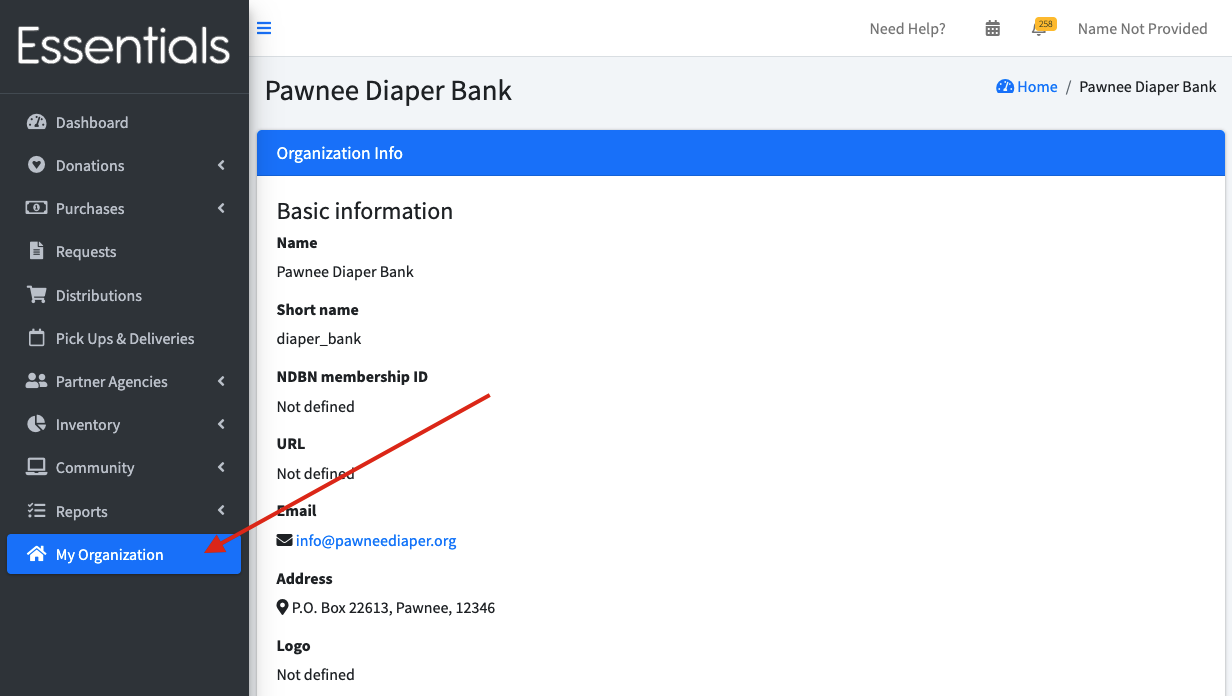
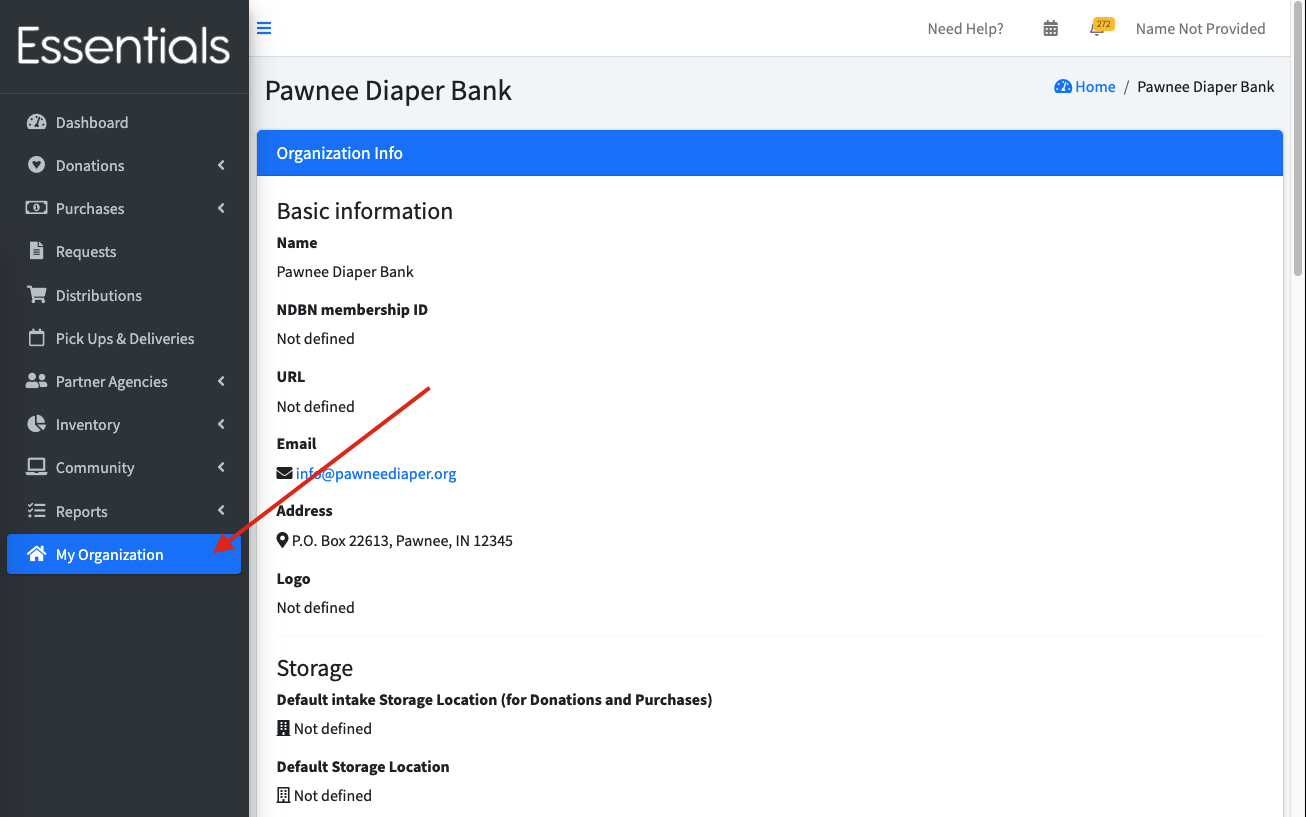
Remove mention of organization short name from user guide

Changed region(s): [[0.0, 0.0, 1.0, 1.0], [0.7094, 0.0302, 0.7711, 0.0603]]

diff --git a/docs/user_guide/bank/getting_started_customization.md b/docs/user_guide/bank/getting_started_customization.md
@@ -28,9 +28,6 @@ Here's all the fields, with a bit about the implications of each one:
 #### Name
 The name of your Essentials Bank.   This appears in the headings on most screens, and will appear on printouts (such as the distribution printout many banks use as a packing slip), and most reports.
 
-#### Short name
-You don't change this -- we assigned it when we set it up -- it's here for reference for support calls if we need it.
-
 #### NDBN membership ID
 This should be filled in already from your Account Request,but if it isn't, you can select it from the list.   That list is updated on an irregular basis,  so if you are an NDBN member, and you aren't on the list,  let us know and we'll get a fresh list uploaded.
 This is included on the Annual Survey report.  That's the only effect.
